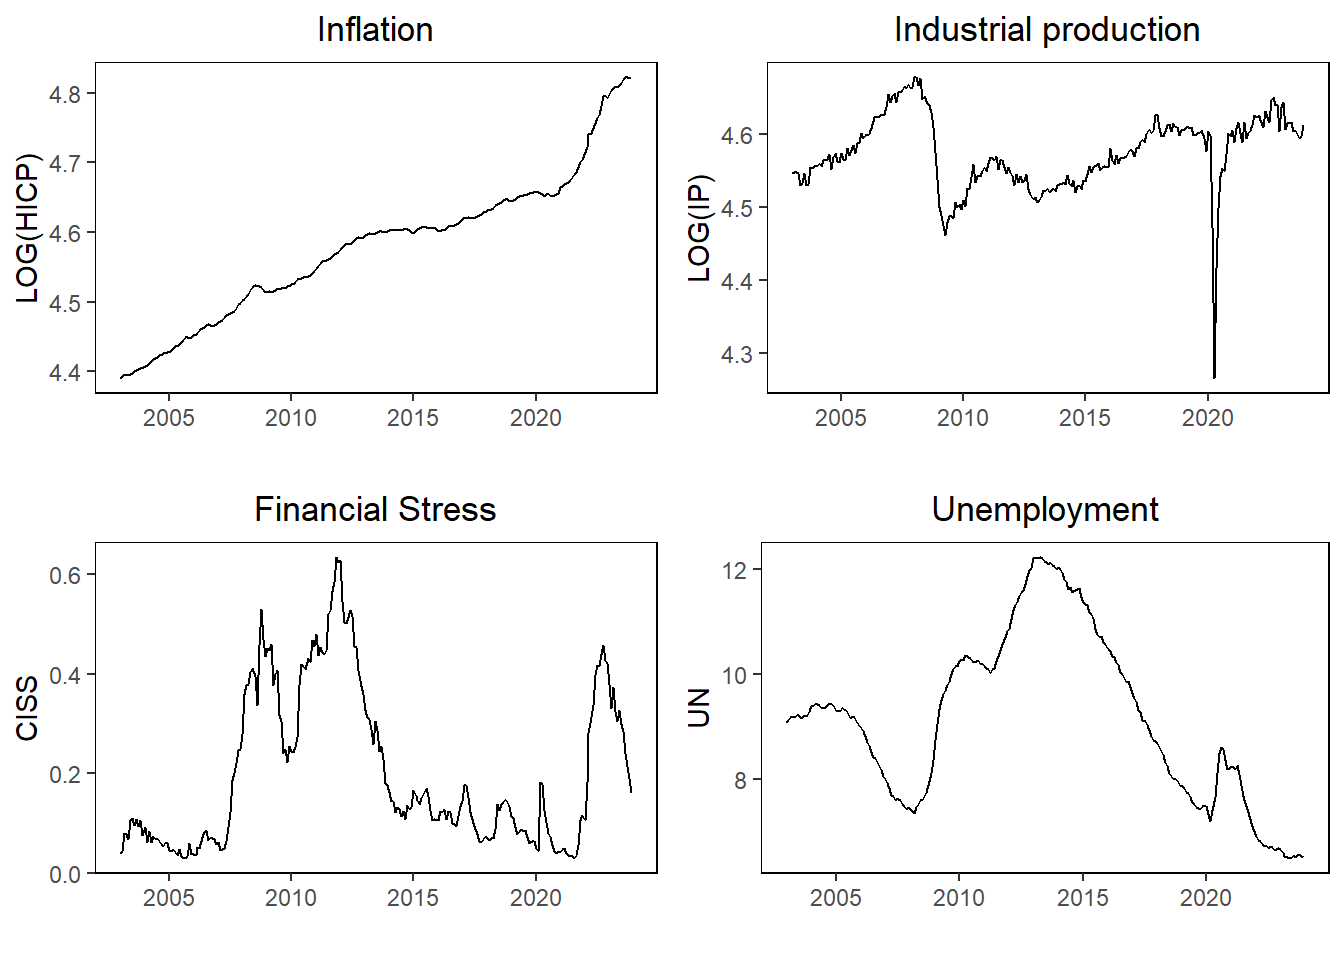
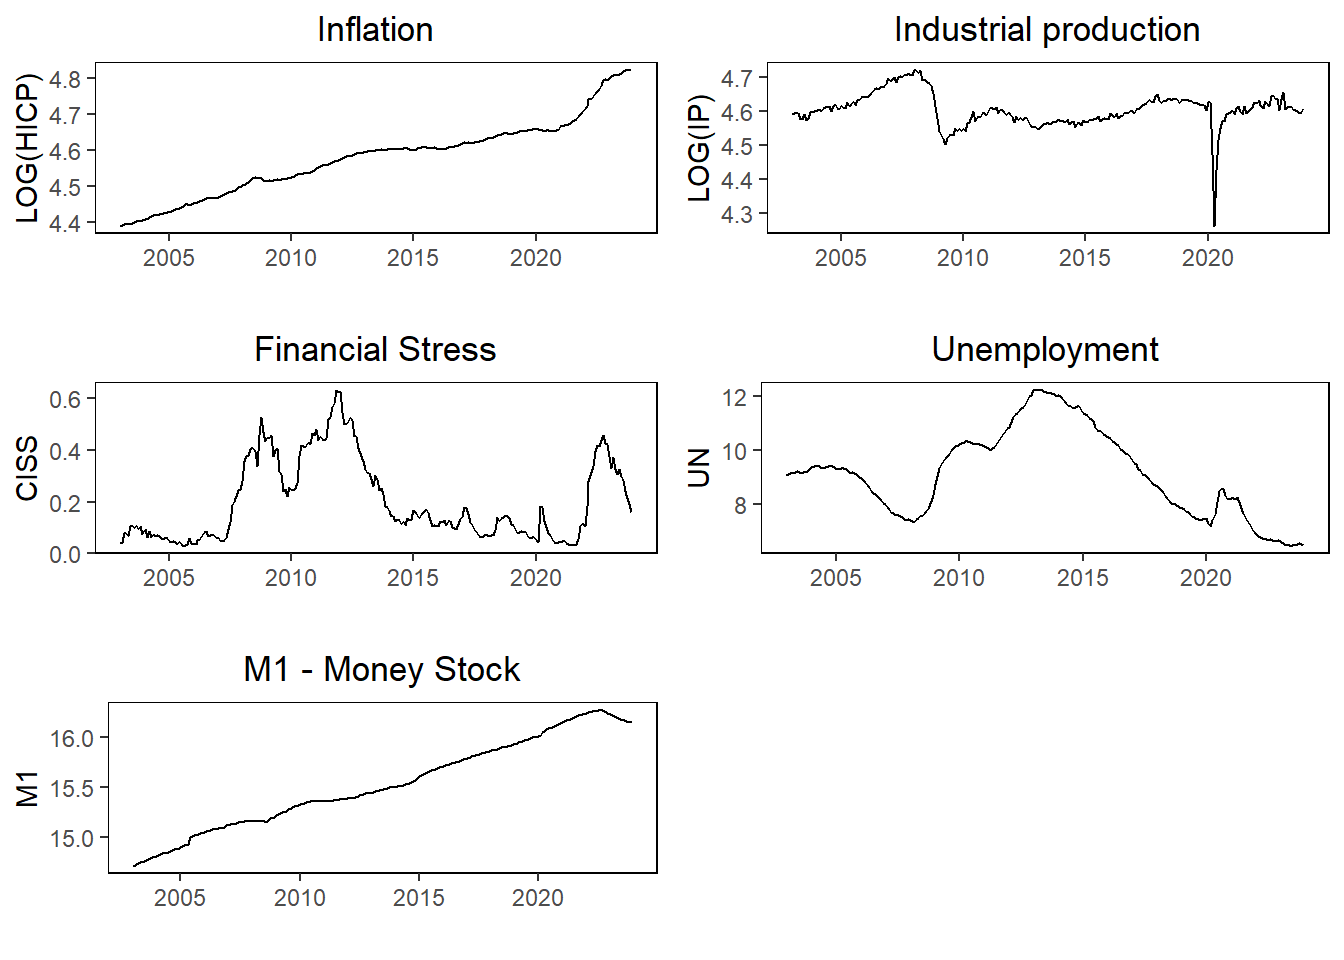
Incorporating the rest of Stephans feedback as requested

diff --git a/docs/index.html b/docs/index.html
@@ -160,11 +160,12 @@ ul.task-list li input[type="checkbox"] {
 <p>To model the economic activity in the euro area, I use the Industrial Production as proxy for the movements in the Gross Domestic Product (GDP). If I instead opted to use GDP as a variable directly, I would have been required to apply temporal disaggregation, as GDP is tracked quarterly.</p>
 <p>The price level in the euro area is included as the Harmonized Index of Consumer Prices (HICP), which measures the price level and inflation across the euro area. Including the price level is important, as it is a major concern for policy makers and it will affect the economic activity and be affected by financial conditions. The base year of the HICP is 2015.</p>
 <p>Additionally, I include unemployment in the euro area, as it is both an indicator of economic activity and current expectations to the future. Hence, unemployment serves as an important variable to include when modelling the economy.</p>
-<p>Finally I chose to include financial stress, which is measured by composite indicator variable for systemic stress (CISS) in the euro area, as financial conditions and markets highly affects the economic activity, inflation and unemployment.</p>
-<p>The used time series are collected from the ECB’s data warehouse with the chosen time period 01.01.2003 to 2023.12.01. I use the package <em>ecb()</em> to collect the data.</p>
+<p>I chose to include financial stress, which is measured by composite indicator variable for systemic stress (CISS) in the euro area, as financial conditions and markets highly affects the economic activity, inflation and unemployment.</p>
+<p>Finally, I include the M1 money supply in the euro area.</p>
+<p>The used time series are collected from the ECB’s data warehouse with the chosen time period 01.01.2003 to 2023.12.01. I use the package <strong>ecb</strong> to collect the data.</p>
 <section id="descriptive-analysis" class="level2">
 <h2 class="anchored" data-anchor-id="descriptive-analysis">Descriptive analysis</h2>
-<p>The four variables are visualized in <a href="#fig-tsplots">Figure&nbsp;1</a>, where I have taken the logarithm to all variables except from the indicator variable CISS. Inflation seems to follow an upwards trend, while industrial production, financial stress and unemployment all seem to follow each other, such that industrial production is negative correlated with unemployment and financial stress. Intuitively it makes sense that economic activity decreases with increasing unemployment or stress and uncertainty in the financial sector.</p>
+<p>The five variables are visualized in <a href="#fig-tsplots">Figure&nbsp;1</a>, where I have taken the logarithm to all variables except from the indicator variable CISS. Inflation and M1 money supply seem to follow an upwards trend, while industrial production, financial stress and unemployment all seem to follow each other, such that industrial production is negative correlated with unemployment and financial stress. Intuitively it makes sense that economic activity decreases with increasing unemployment or stress and uncertainty in the financial sector.</p>
 <div class="cell">
 <div class="cell-output-display">
 <div id="fig-tsplots" class="quarto-figure quarto-figure-center anchored">
@@ -225,20 +226,26 @@ ul.task-list li input[type="checkbox"] {
 </tr>
 <tr class="even">
 <td style="text-align: center;">IP</td>
-<td style="text-align: center;">-2.954</td>
-<td style="text-align: center;">0.174</td>
+<td style="text-align: center;">-2.975</td>
+<td style="text-align: center;">0.165</td>
 <td style="text-align: center;">12</td>
 </tr>
 <tr class="odd">
 <td style="text-align: center;">CISS</td>
-<td style="text-align: center;">-2.691</td>
-<td style="text-align: center;">0.285</td>
+<td style="text-align: center;">-2.260</td>
+<td style="text-align: center;">0.466</td>
 <td style="text-align: center;">12</td>
 </tr>
 <tr class="even">
 <td style="text-align: center;">UN</td>
-<td style="text-align: center;">-2.260</td>
-<td style="text-align: center;">0.466</td>
+<td style="text-align: center;">-2.891</td>
+<td style="text-align: center;">0.200</td>
+<td style="text-align: center;">12</td>
+</tr>
+<tr class="odd">
+<td style="text-align: center;">M1</td>
+<td style="text-align: center;">-1.339</td>
+<td style="text-align: center;">0.854</td>
 <td style="text-align: center;">12</td>
 </tr>
 </tbody>
